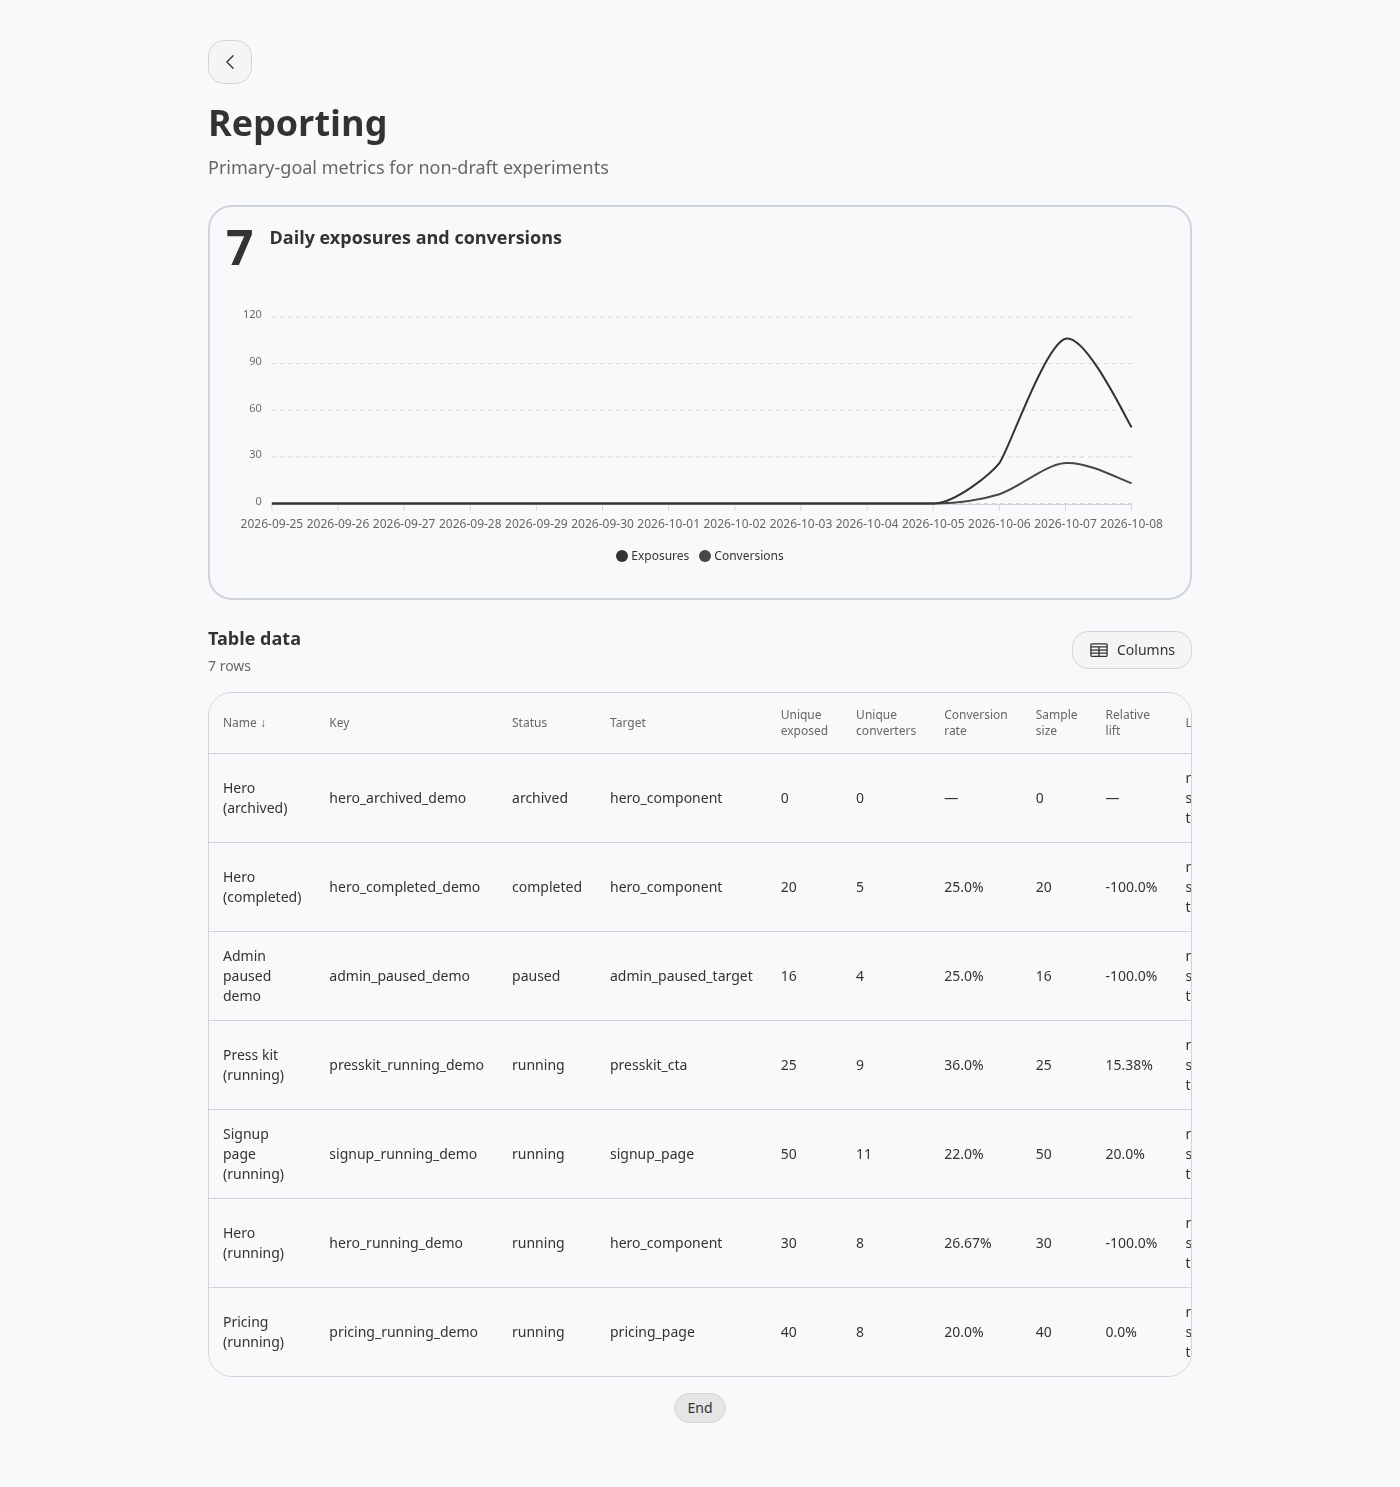
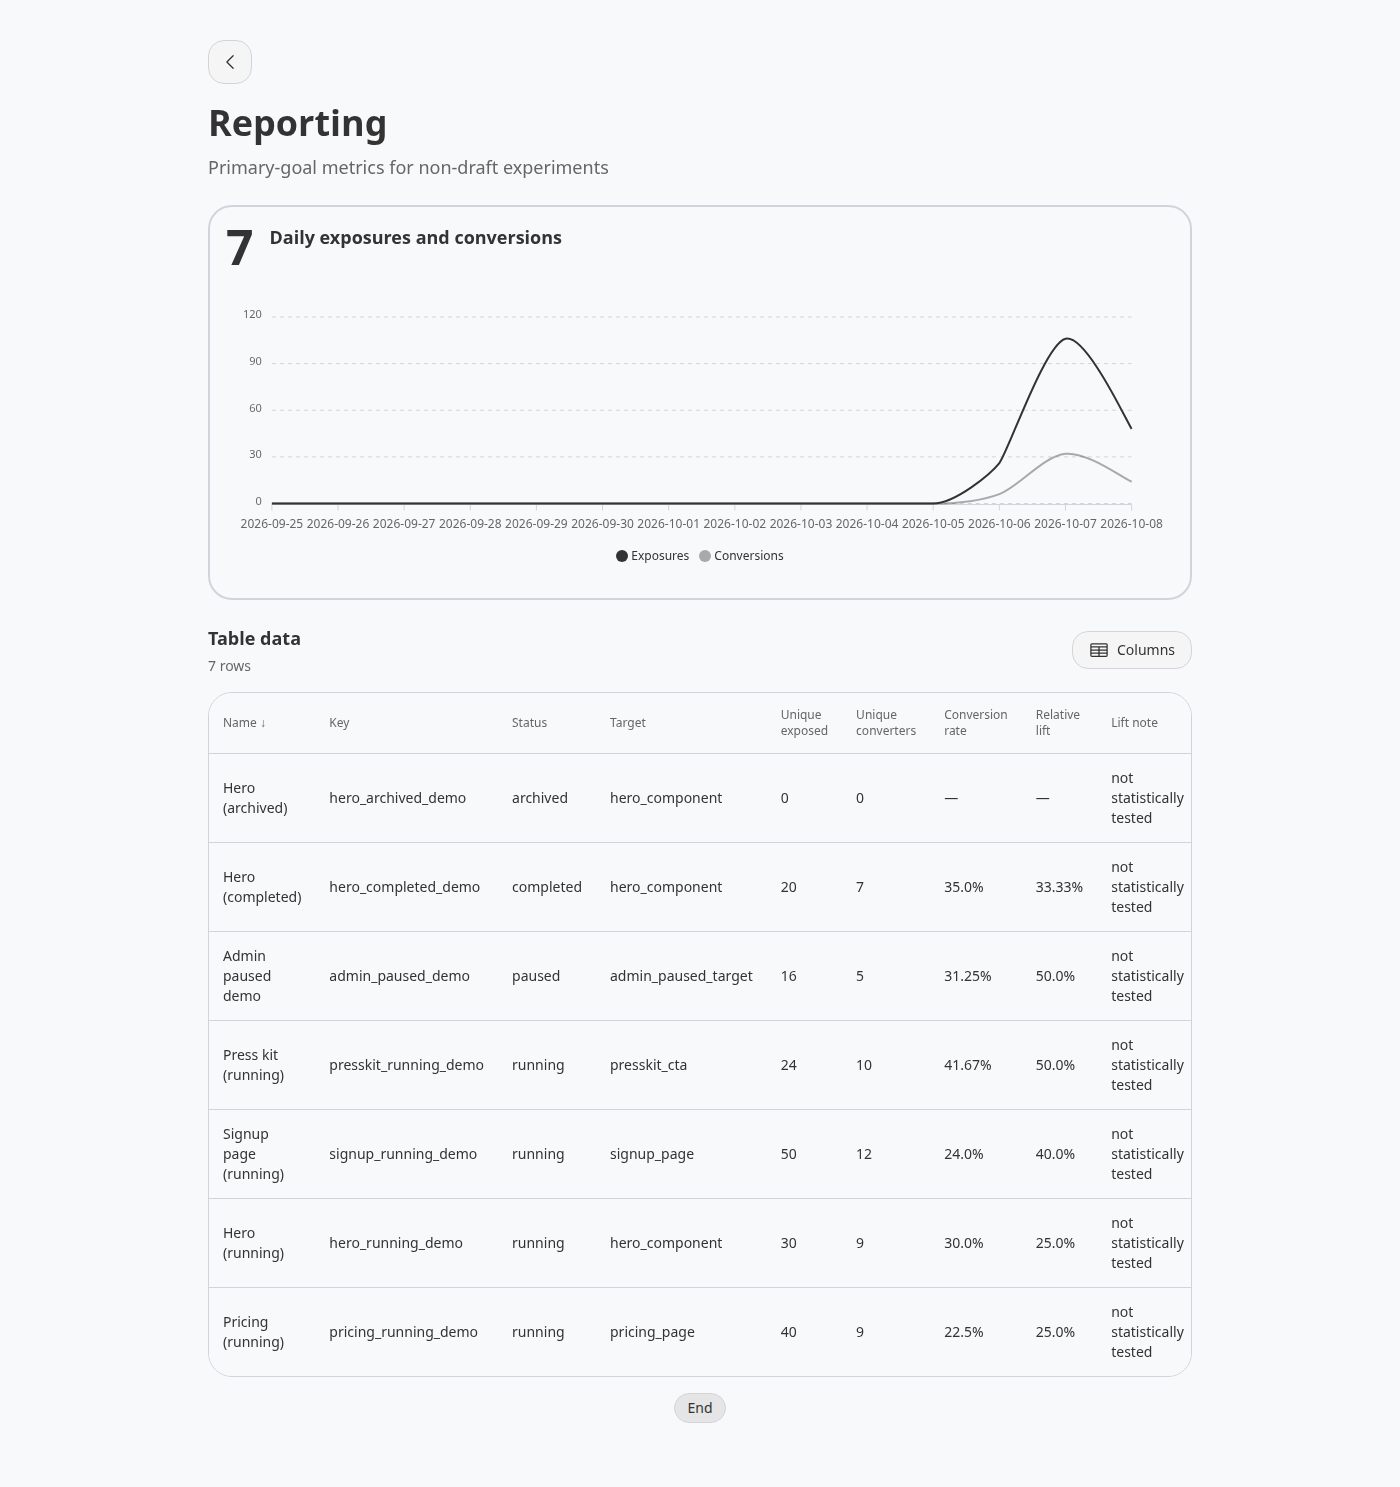
PR3 follow-up: realistic reporting lift seeds + chart colours (#5)
* PR3: realistic seed lift, distinct reporting chart colours

Even convert_ratio starved variant b (only even indices converted →
control-only → −100% lift). Convert per-variant ordinals and give
treatment a slightly higher rate. Chart uses Flatpack options colors;
drop redundant sample_size column (Admin has no min_width DSL).

* PR3 follow-up: re-shoot reporting screenshots after seed/lift fix

* PR3 follow-up: fix rubocop FirstHashElementIndentation on chart options

---------

diff --git a/test/dummy/db/seeds.rb b/test/dummy/db/seeds.rb
@@ -224,11 +224,16 @@ if archived.draft? || !archived.archived?
 end
 
 # Generated traffic so Admin list/detail/report screens show real rows.
-seed_traffic = lambda do |experiment, visitors:, convert_ratio:|
+# Assign even indices to control and odd to treatment. Conversion uses each
+# variant's own ordinal (i/2) so an even convert_ratio does not starve variant b
+# (previously `i % convert_ratio` only hit control → −100% relative lift).
+seed_traffic = lambda do |experiment, visitors:, convert_ratio:, treatment_convert_ratio: nil|
   goal = experiment.goals.find_by(is_primary: true) || experiment.goals.first
   control = experiment.variants.find_by(is_control: true)
   treatment = experiment.variants.where(is_control: false).order(:position).first
   next unless goal && control && treatment
+
+  treatment_ratio = treatment_convert_ratio || convert_ratio
 
   visitors.times do |i|
     variant = i.even? ? control : treatment
@@ -256,7 +261,9 @@ seed_traffic = lambda do |experiment, visitors:, convert_ratio:|
       row.metadata = {}
     end
 
-    next unless (i % convert_ratio).zero?
+    ordinal = i / 2
+    ratio = variant.is_control? ? convert_ratio : treatment_ratio
+    next unless (ordinal % ratio).zero?
 
     RecordingStudioAbTests::Conversion.find_or_create_by!(
       idempotency_key: "seed-#{experiment.key}-#{subject}-#{goal.key}"
@@ -280,12 +287,13 @@ end
 test_db = Rails.env.test? ||
   ActiveRecord::Base.connection_db_config.database.to_s.end_with?("_test")
 unless test_db
-  seed_traffic.call(pricing_running, visitors: 40, convert_ratio: 5)
-  seed_traffic.call(hero_running, visitors: 30, convert_ratio: 4)
-  seed_traffic.call(signup_running, visitors: 50, convert_ratio: 5)
-  seed_traffic.call(presskit_running, visitors: 24, convert_ratio: 3)
-  seed_traffic.call(paused, visitors: 16, convert_ratio: 4)
-  seed_traffic.call(completed, visitors: 20, convert_ratio: 4)
+  # treatment_convert_ratio slightly lower → positive relative lift for demos
+  seed_traffic.call(pricing_running, visitors: 40, convert_ratio: 5, treatment_convert_ratio: 4)
+  seed_traffic.call(hero_running, visitors: 30, convert_ratio: 4, treatment_convert_ratio: 3)
+  seed_traffic.call(signup_running, visitors: 50, convert_ratio: 5, treatment_convert_ratio: 4)
+  seed_traffic.call(presskit_running, visitors: 24, convert_ratio: 3, treatment_convert_ratio: 2)
+  seed_traffic.call(paused, visitors: 16, convert_ratio: 4, treatment_convert_ratio: 3)
+  seed_traffic.call(completed, visitors: 20, convert_ratio: 4, treatment_convert_ratio: 3)
 end
 
 # Only one live experiment per target — archive the draft's conflict by keeping

diff --git a/test/metrics_test.rb b/test/metrics_test.rb
@@ -61,4 +61,34 @@ class MetricsTest < Minitest::Test
     assert_equal "—", RecordingStudioAbTests::Metrics.format_value_per_exposed(10, 0)
     assert_equal "not statistically tested", RecordingStudioAbTests::Metrics::LIFT_LABEL
   end
+
+  # Reporting -100% with a non-zero overall rate is accurate when treatment has
+  # zero converters and control does not (old seed used even convert_ratio on
+  # even→control indices). Metrics must still report -100.0%, not "—".
+  def test_zero_treatment_conversions_is_negative_one_hundred_percent_lift
+    control = VariantStub.new(id: "c", key: "control", name: "Control", is_control: true, position: 0)
+    treatment = VariantStub.new(id: "b", key: "b", name: "B", is_control: false, position: 1)
+
+    rows = RecordingStudioAbTests::Metrics.build_rows(
+      [control, treatment],
+      {
+        assignments: { "c" => 8, "b" => 8 },
+        unique_exposed: { "c" => 8, "b" => 8 },
+        raw_conversions: { "c" => 2, "b" => 0 },
+        unique_converters: { "c" => 2, "b" => 0 },
+        total_values: { "c" => 2.0, "b" => 0 }
+      }
+    )
+
+    treatment_row = rows.find { |r| r.variant_key == "b" }
+    assert_equal "0.0%", treatment_row.conversion_rate
+    assert_equal "-100.0%", treatment_row.relative_lift
+    assert_equal "25.0%", rows.find { |r| r.variant_key == "control" }.conversion_rate
+  end
+
+  def test_format_lift_matches_relative_change_formula
+    assert_equal "-100.0%", RecordingStudioAbTests::Metrics.format_lift(0.0, 0.25, control: false)
+    assert_equal "100.0%", RecordingStudioAbTests::Metrics.format_lift(0.4, 0.2, control: false)
+    assert_equal "—", RecordingStudioAbTests::Metrics.format_lift(0.4, 0.2, control: true)
+  end
 end

diff --git a/lib/recording_studio_ab_tests/admin.rb b/lib/recording_studio_ab_tests/admin.rb
@@ -593,6 +593,14 @@ module RecordingStudioAbTests
       chart do
         title "Daily exposures and conversions"
         type :line
+        # Flatpack defaults both series to near-identical primary opacities; override
+        # via ChartDefinition#options (passed through to FlatPack::Chart::Component).
+        options({
+                  colors: [
+                    "color-mix(in oklab, var(--color-primary) 100%, transparent)",
+                    "color-mix(in oklab, var(--color-primary) 40%, transparent)"
+                  ]
+                })
         series { |_context| RecordingStudioAbTests::Admin.daily_reporting_series }
       end
 
@@ -604,7 +612,8 @@ module RecordingStudioAbTests
         column :unique_exposed, title: "Unique exposed"
         column :unique_converters, title: "Unique converters"
         column :conversion_rate, title: "Conversion rate"
-        column :sample_size, title: "Sample size"
+        # sample_size duplicates unique_exposed; omit so Relative lift / Lift note fit.
+        # Admin TableDefinition does not expose FlatPack min_width (no custom CSS).
         column :relative_lift, title: "Relative lift"
         column :lift_label, title: "Lift note"
         paginate per_page: 25
